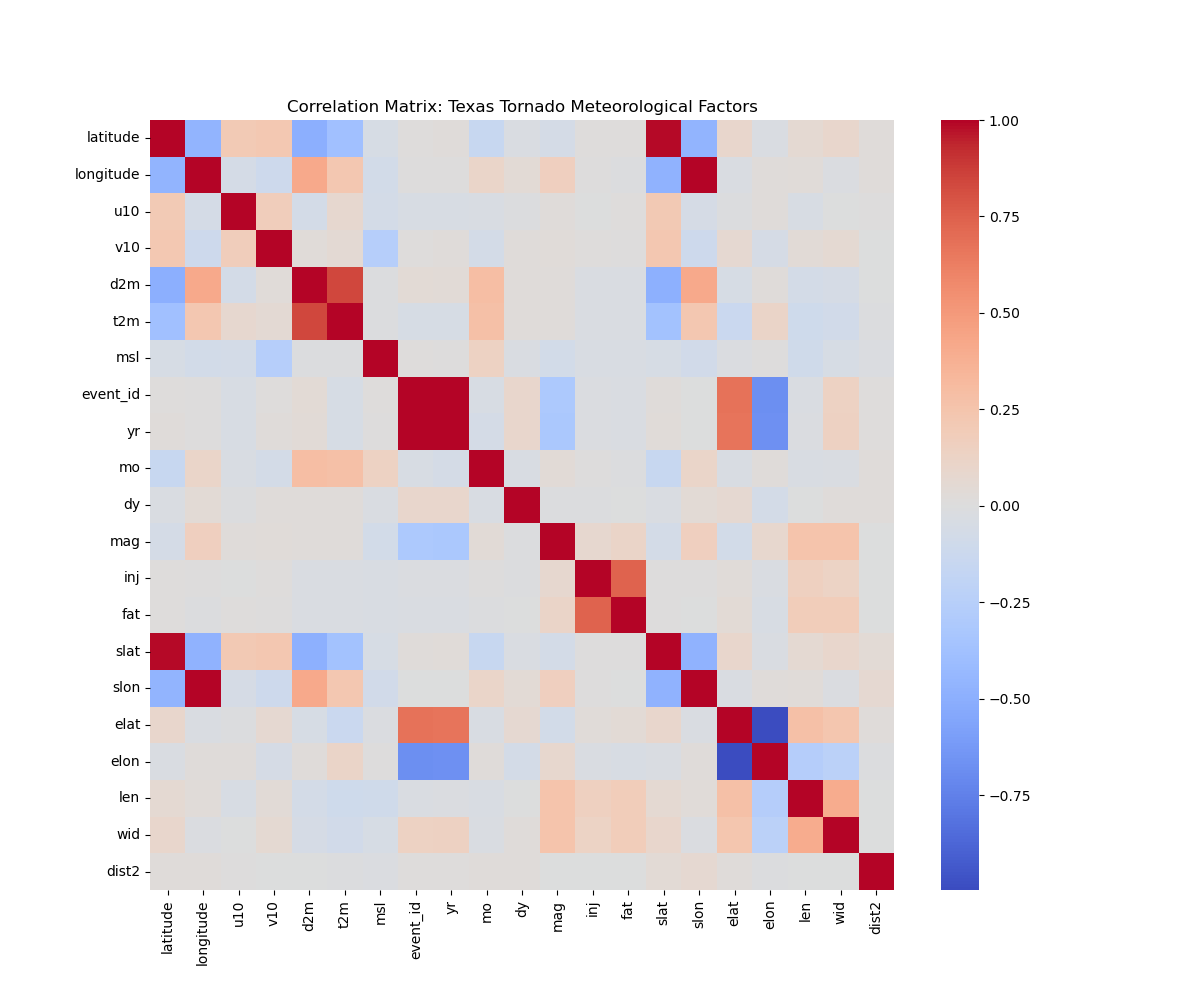
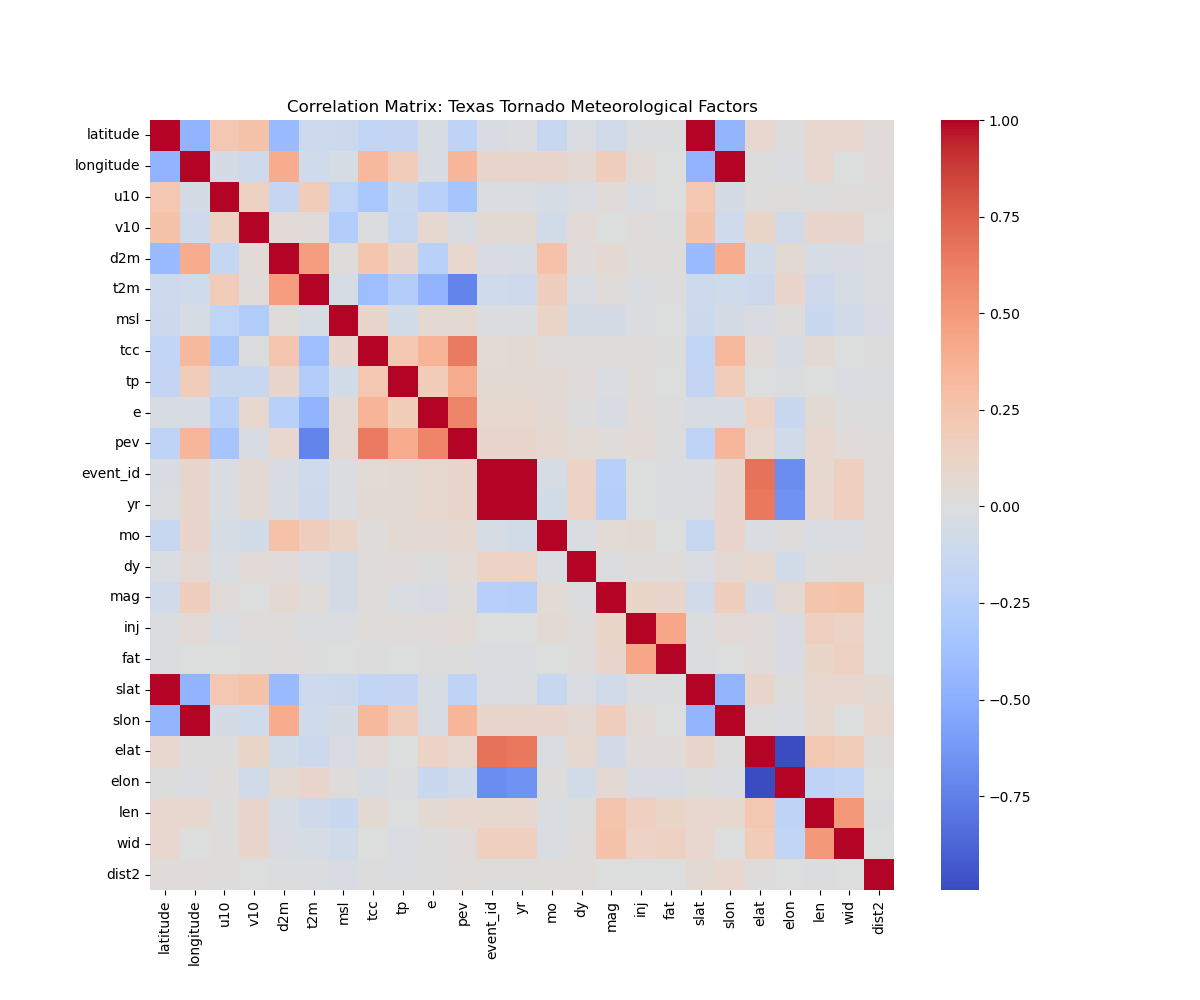
Updated correlation matrix

diff --git a/scripts/tornado_center_of_mass_shift.py b/scripts/tornado_center_of_mass_shift.py
@@ -151,9 +151,6 @@ def plot_trajectory(ax, com_data, colors, title, colorbar_label, zoom=False, lab
     ax.grid(True, alpha=0.3)
     ax.set_aspect('equal', adjustable='box')
 
-    if zoom:
-        ax.set_xlim(lon_lim)
-        ax.set_ylim(lat_lim)
 
 fig1, (ax1, ax2) = plt.subplots(1, 2, figsize=(16, 8))
 

diff --git a/scripts/correlation_matrix_condensed.py b/scripts/correlation_matrix_condensed.py
@@ -4,7 +4,7 @@ import matplotlib.pyplot as plt
 import os
 
 # Read the dataset
-data_path = '../Data/final_data.csv'
+data_path = '../Data/final_data1.csv'
 df = pd.read_csv(data_path)
 
 # You can change cols_to_drop to drop other desired columns if you want

diff --git a/scripts/correlation_matrix.py b/scripts/correlation_matrix.py
@@ -4,7 +4,7 @@ import matplotlib.pyplot as plt
 import os
 
 # Read the dataset
-data_path = '../Data/final_data.csv'
+data_path = '../Data/final_data1.csv'
 df = pd.read_csv(data_path)
 
 # Select only numeric columns
